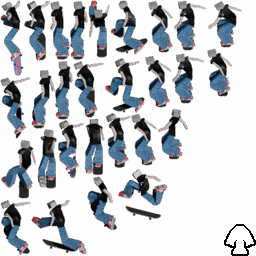
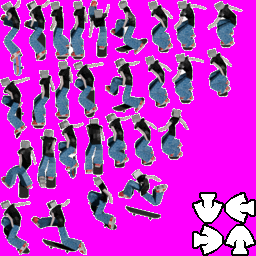
New arrows, a bit more compact in the memory and more pretty

diff --git a/source/gameplay.cpp b/source/gameplay.cpp
@@ -25,8 +25,8 @@ void Gameplay::Start()
   printf("Loading player spritesheet\n");
   int small = NE_MaterialTexLoadGRF(player_mat, 
                         player_pal, 
-                        //NE_TEXTURE_COLOR0_TRANSPARENT,
-                        (NE_TextureFlags)0, 
+                        NE_TEXTURE_COLOR0_TRANSPARENT,
+                        //(NE_TextureFlags)0, 
                         //"models/spritesheet_small_png.grf");
                         "models/squeezed_256_png.grf");
   if(small != 1 )
@@ -61,8 +61,8 @@ void Gameplay::Start()
   printf("Setting target arrows \n");
 	for(int i = 0; i < 4; i++)
 	{
-    target_arrows[i].uv_position.x = arrow_frame.x;
-		target_arrows[i].uv_position.y = arrow_frame.y;
+    target_arrows[i].uv_position.x = arrws_rect[i+1].x;
+		target_arrows[i].uv_position.y = arrws_rect[i+1].y;
 		target_arrows[i].anchor = (Vector2i){16, 16};
 		target_arrows[i].transform.position = {X_Positions[i+1],  16};
 		target_arrows[i].dimensions = {32, 32};
@@ -135,16 +135,17 @@ void Gameplay::Update()
     int chnl = arrws[i].channel;
 		arrow_sprites[i]._SetPosition(	
 		  X_Positions[chnl],
-			(-1 * (frame - arrws[i].time_start)) + 16 - SCREEN_HEIGHT - SCREEN_GAP
+			(-1 * (frame - arrws[i].time_start) * SPEED_MULT) + 16 - SCREEN_HEIGHT - SCREEN_GAP
 		);
 
     top_arrows[i].transform.position.x = X_Positions[chnl];
-    top_arrows[i].transform.position.y = (-1 * (frame - arrws[i].time_start)) + 16;
+    top_arrows[i].transform.position.y = (-1 * (frame - arrws[i].time_start) * SPEED_MULT) + 16;
     //top_arrows[i].uv_position = {0, 32 * (chnl - 1)};
     top_arrows[i].tint = arrws_col[chnl];
-		top_arrows[i].transform.angle = arrws_rot[chnl];
+		//top_arrows[i].transform.angle = ar
+    top_arrows[i].uv_position.x = arrws_rect[chnl].x;
+		top_arrows[i].uv_position.y = arrws_rect[chnl].y;
     top_arrows[i].Draw();
-		top_arrows[i].transform.angle = arrws_rot[arrws[i].channel];
     arrow_sprites[i].offset = arrws_offset[chnl];
 		arrow_sprites[i].Update();
   }
@@ -161,6 +162,7 @@ void Gameplay::Update()
     }
 		if(NQME::JustPressed(controls[i]))
 		{
+      printf("[DEBUG] Angle : %ld\n", top_arrows[i].transform.angle);
       int d = DistForKey(i+1, eh, 15);
 			if(d >= 0)
 			{

diff --git a/source/gameplay.hpp b/source/gameplay.hpp
@@ -11,19 +11,27 @@ extern "C"{
 #define EVENT_BUFFER_SIZE 10
 #define NUM_ARROWS 32
 
+#define SPEED_MULT 3
+
 
 class Gameplay: public NQME::Scene
 {
 public:
   int X_Positions[5]       = {-32, 32, 94, 168, 232};
   int arrws_offset[5]      = {0, 0, 8, 16, 24};
-	float arrws_rot[5]     = {  0,  0,  0.25, 0.5 , 0.75};
+  Rect arrws_rect[5]        = {
+    {0, 0, 32, 32},
+    {256 - 32, 256 - 64, 32, 32},  // LEFT
+    {256 - 32, 256 - 32, 32, 32}, // UP
+    {256 - 64, 256 - 64, 32, 32}, // DOWN
+    {256 - 64, 256 - 32, 32, 32}, // RIGHT
+  };
   u32 arrws_col[5]     = {
     0xFFFFFF, //Black but invisible so who cares
-    0xFF0000, //Red
-    0x00FF00, //Green
-    0x0000FF, //Blue
-    0xFFFF00, //Yellow
+    0b000001111111111, //Yellow
+    0b000001111100000, //Green
+    0b000000000011111, //Red
+    0b111110000000000, //Blue
   };
 	u16 controls[4] = {KEY_LEFT, KEY_UP, KEY_X, KEY_A};
 

diff --git a/engine/source/nqme_gfx.cpp b/engine/source/nqme_gfx.cpp
@@ -432,7 +432,7 @@ void NitroSprite::Draw()
         return;
     NE_SpriteSetParams(sprite, 0x1F, DS.sprite_count, tint);
     NE_SpriteSetPriority(sprite, (int)index+1);
-    Vector2i old_pos = transform.position; 
+    //Vector2i old_pos = transform.position; 
     Vector2i delta = GetOffset();
     Vector2i new_pos = {
       transform.position.x - delta.x - (int)(anchor.x * transform.scale),
@@ -445,7 +445,7 @@ void NitroSprite::Draw()
     );
     NE_SpriteSetRot(
       sprite,
-      floattof32(transform.angle)
+      transform.angle
     );
     
     int u = (uv_dimensions.x == 0) ? dimensions.x : uv_dimensions.x; 

diff --git a/engine/source/nqme_gfx.hpp b/engine/source/nqme_gfx.hpp
@@ -161,7 +161,7 @@ struct Transform2D
 {
   Vector2i position = (Vector2i){0, 0};
   float scale = 1.0f;
-  float angle = 0.0f;
+  u32 angle = 1 << 14;
 };
 
 class StaticModel 
